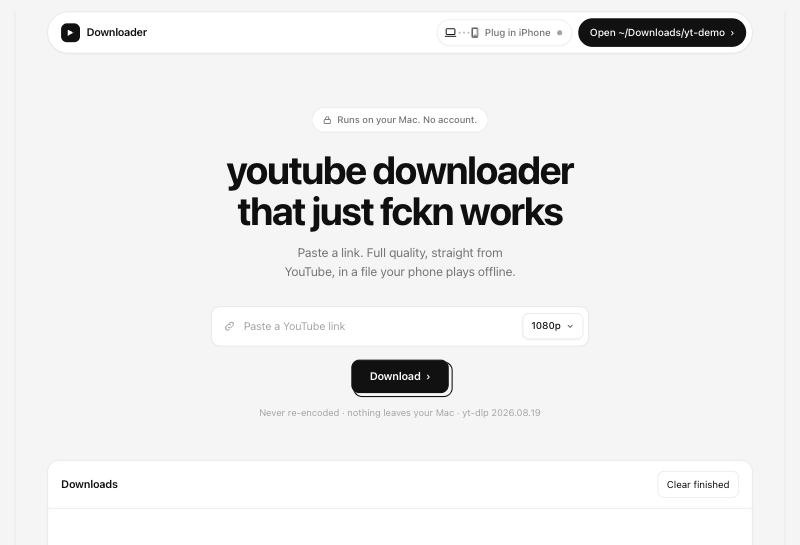
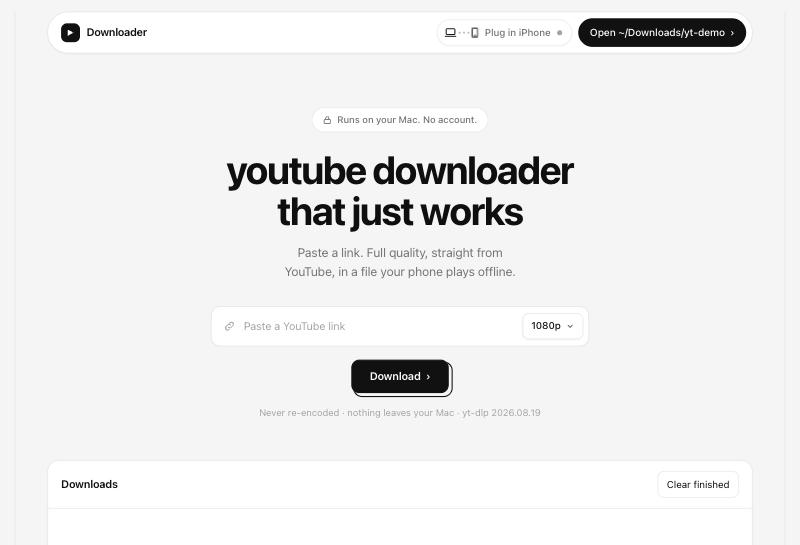
Drop the profanity from the headline and screenshot

Changed region(s): [[0.2812, 0.3431, 0.7188, 0.4367]]

diff --git a/app.py b/app.py
@@ -665,7 +665,7 @@ h1{font-size:clamp(32px,5.6vw,54px);font-weight:700;letter-spacing:-.035em;line-
   <rect x="2.4" y="6.2" width="9.2" height="6" rx="1.6" stroke="currentColor" stroke-width="1.4"/>
   <path d="M4.6 6.2V4.4a2.4 2.4 0 0 1 4.8 0v1.8" stroke="currentColor" stroke-width="1.4"/></svg>
   Runs on your Mac. No account.</span>
- <h1>youtube downloader<br>that just fckn works</h1>
+ <h1>youtube downloader<br>that just works</h1>
  <p class="sub">Paste a link. Full quality, straight from YouTube, in a file your phone plays offline.</p>
  <div class="form">
   <div class="bar">
